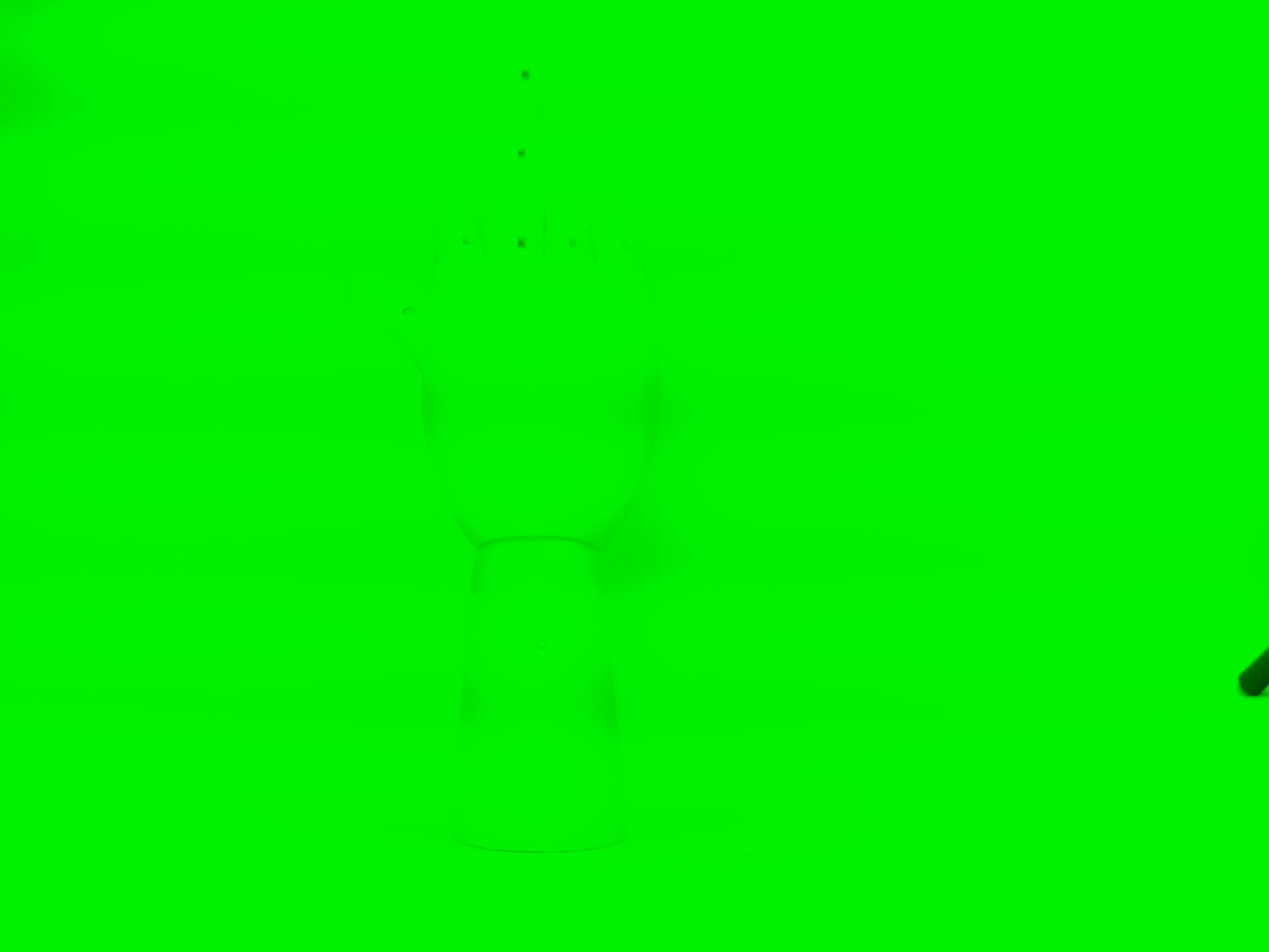
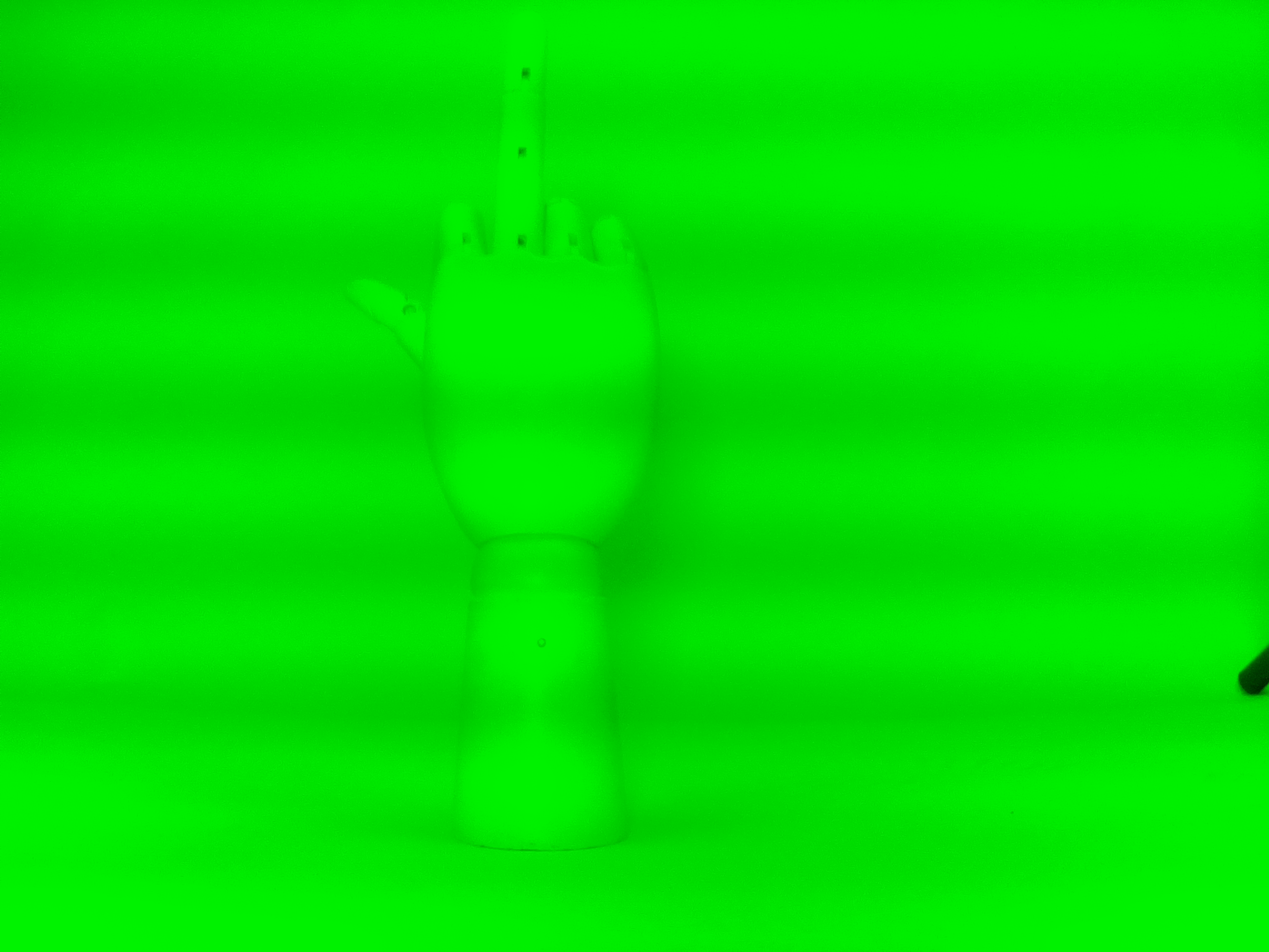
remaining photos

diff --git a/scripts/autogenerated_images/image_settings.py b/scripts/autogenerated_images/image_settings.py
@@ -1,0 +1,39 @@
+import subprocess
+from picamera import PiCamera
+import os
+
+
+# ss 1800-4000, 100 incr
+# iso 300-1000, 100 incr
+# awbgains 1.5,2.0 0.1 incr
+fli = ["auto","off","50hz","60hz"]
+awb = ["off","auto",
+       "sun","cloud",
+       "shade","tungsten", 
+       "fluorescent", "incandescent", 
+       "flash", "horizon", "greyworld"]
+exp = ["auto","night","nightpreview",
+       "backlight", "spotlight","sports",
+       "snow", "beach", "verylong",
+       "fixedfps","antishake", "fireworks"]
+
+index = 0
+path = '/home/chris/Desktop/autostoreHelpers/scripts/autogenerated_images'
+
+
+for fli_i in range(len(fli)):
+    for awb_i in range(len(awb)):
+        for exp_i in range(len(exp)):
+            index += 1
+            iso = 500
+            ss = 2000
+            name = f"ss{ss}ISO{iso}ex{exp[exp_i]}fli{fli[fli_i]}awb{awb[awb_i]}"
+            line = f"raspistill -ss {ss} -ISO {iso} -ex {exp[exp_i]} -fli {fli[fli_i]} -awb {awb[awb_i]} -o {name}.jpg"
+            if os.path.exists(name + ".jpg"):
+                print(f"Index: {index} already exists")
+                pass
+            else:
+                print(f"Index: {index}, Image: ",name)
+                print(f"Index: {index}, Command: {line}")
+                subprocess.call(line, shell=True)
+

diff --git a/scripts/autogenerated_images/test.py b/scripts/autogenerated_images/test.py
@@ -1,0 +1,6 @@
+import os
+
+if os.path.exists("image_settings.py"):
+    print("tools.py exists")
+else:
+    print("It doesnt")
